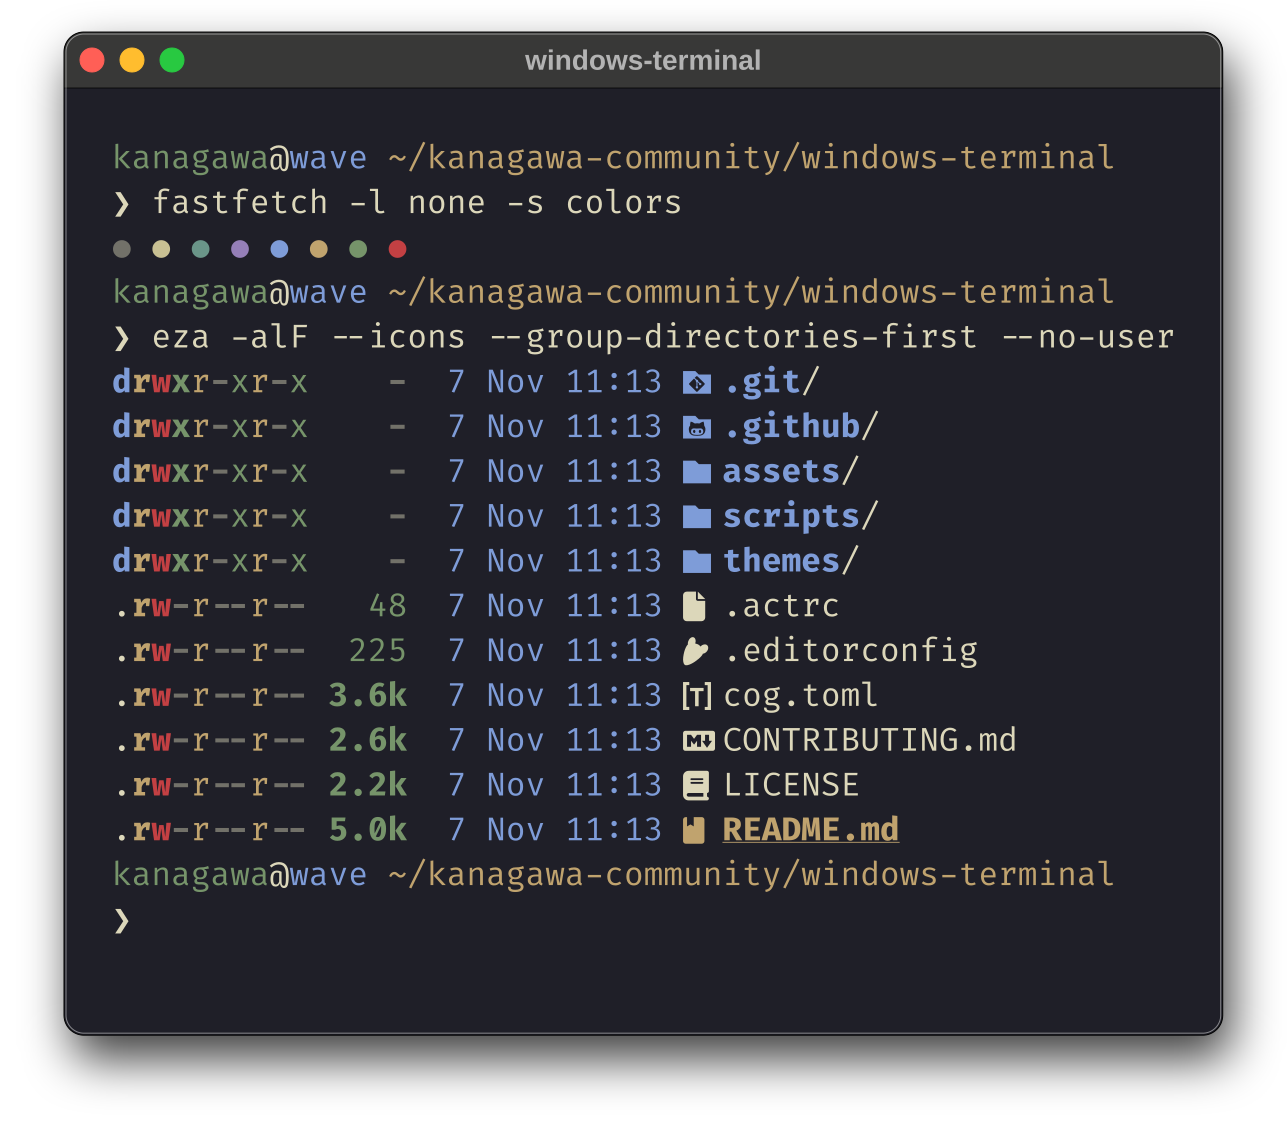
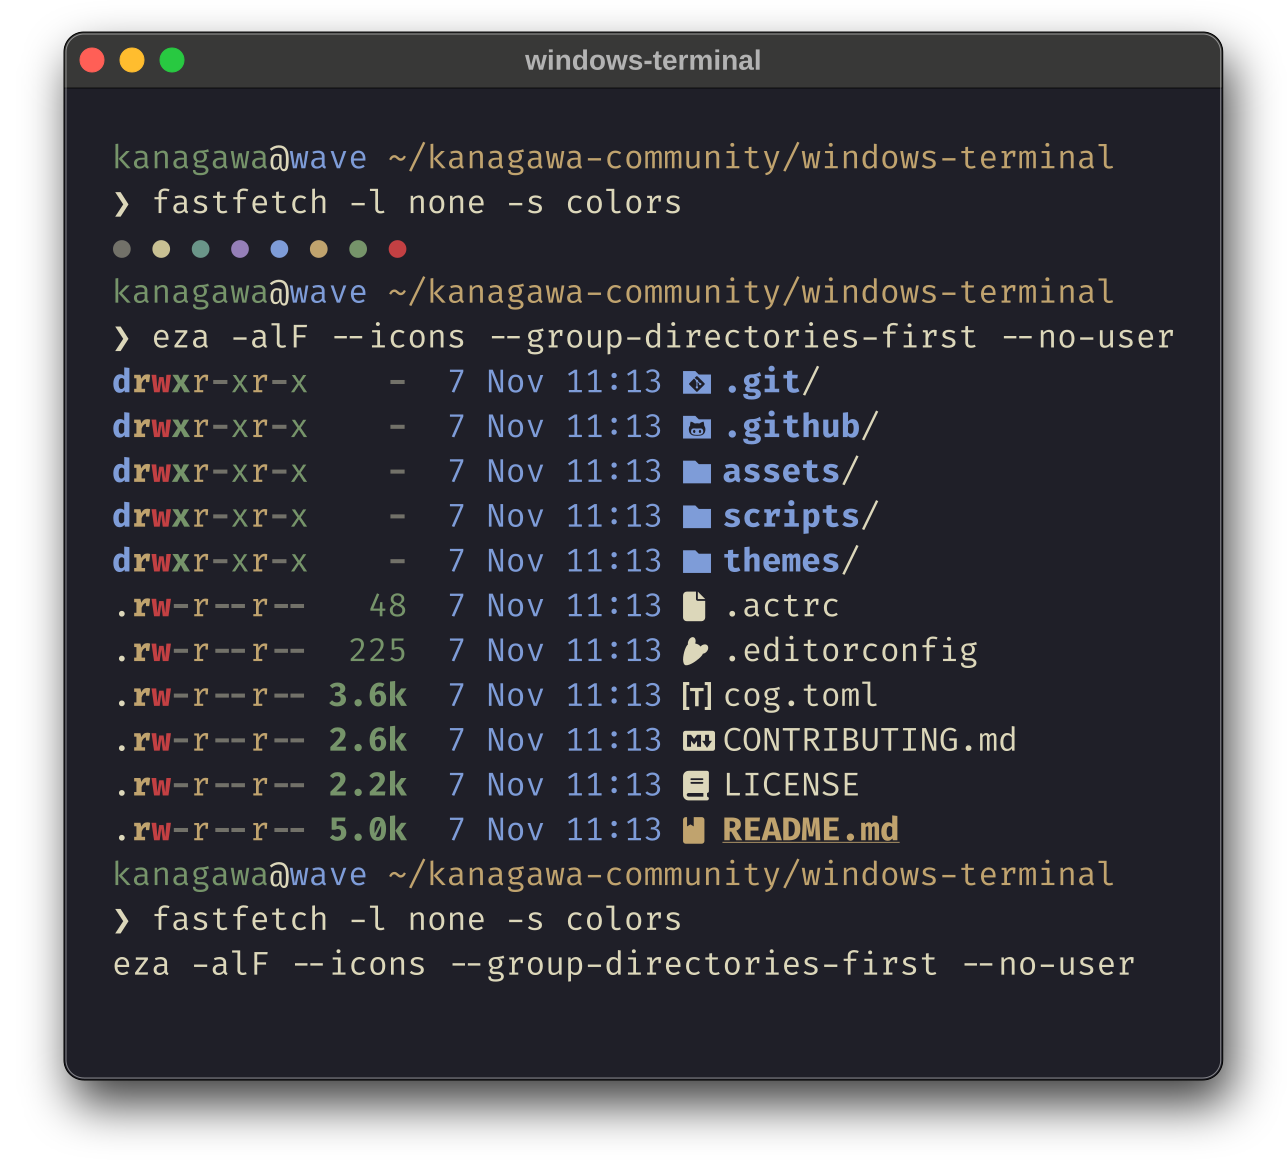
refactor: run the shared session in the preview
scripts/preview.sh runs scripts/session.sh from the .github repository, so it no longer keeps its own copy of the prompt and the commands.

Changed region(s): [[0.0622, 0.1237, 0.9324, 0.8348], [0.0622, 0.0, 0.9324, 0.0928], [0.0622, 0.8966, 0.9635, 0.9276]]

diff --git a/CONTRIBUTING.md b/CONTRIBUTING.md
@@ -49,6 +49,6 @@ bash <(curl -fsSL https://raw.githubusercontent.com/kanagawa-community/.github/m
 
 It fetches the shared preview scripts from the
 [.github repository](https://github.com/kanagawa-community/.github). `scripts/preview.sh` holds the port-specific part
-and needs `bash`, `tmux`, `eza`, `fastfetch`, and `rsync`. It does not need Windows Terminal. See the
+and needs `tmux`, `eza`, `fastfetch`, and `rsync`. It does not need Windows Terminal. See the
 [preview standard](https://github.com/kanagawa-community/.github/blob/main/docs/PREVIEWS.md)
 for the rest.
